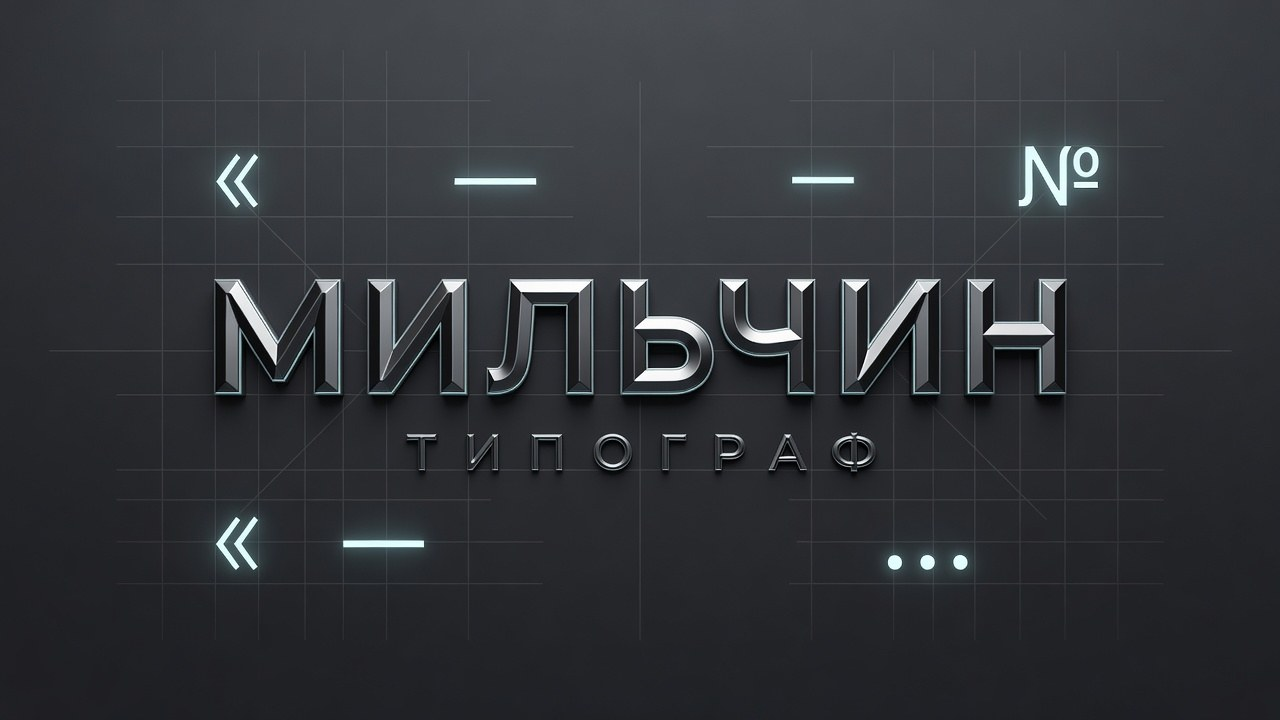
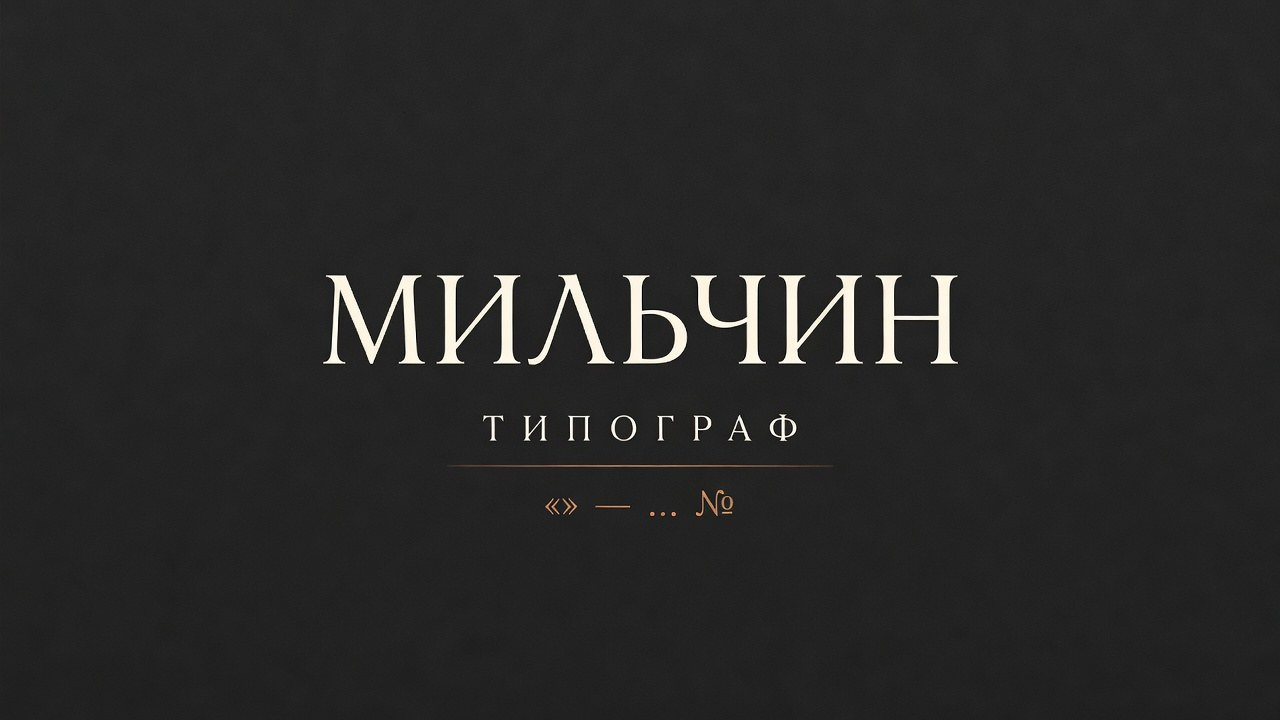
docs: блок «Скилы для редакторов» (семья рИИдактор); финальные ассеты

diff --git a/README.md b/README.md
@@ -201,10 +201,10 @@ python3 milchin.py --selftest
 - `с·—` — NBSP перед em-dash
 - `в·слове` — NBSP после однобуквенного предлога
 
-## Место в семье
+## Скилы для редакторов
 
-«Мильчин» — четвёртый член квартета редакторских инструментов для русского
-текста. Каждый закрывает свою зону, не пересекаясь:
+«Мильчин» — скил для редакторов из семьи **[рИИдактор](https://redaktozavr.ru/rAIdactor?utm_source=rodion)**, рассылки про
+работу редактора с ИИ. Каждый скил семьи закрывает свою зону, не пересекаясь:
 
 | Скил | Зона | Природа |
 |------|------|---------|
@@ -218,8 +218,7 @@ python3 milchin.py --selftest
 
 Мильчин идёт **последним** среди типографических шагов: его правки невидимые
 (NBSP, омоглифы), и если LLM-скил после него снова перепечатает текст —
-механика стёрется. Поэтому скрипт-типограф закрывает финальный шаг.
-
+механика стёрётся. Поэтому скрипт-типограф закрывает финальный шаг.
 ## Лицензия
 
 [MIT](LICENSE) — берите, форкайте, ломайте, чините.